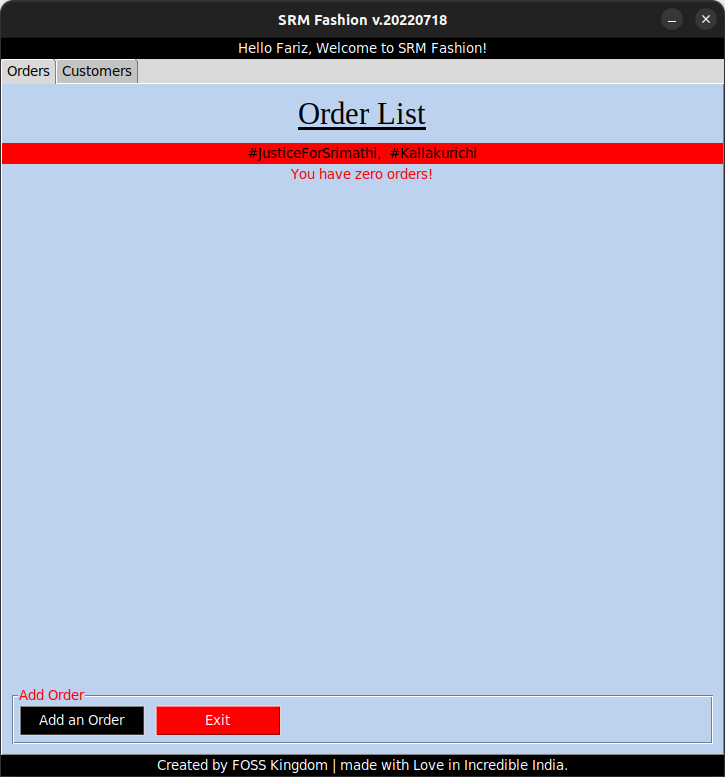
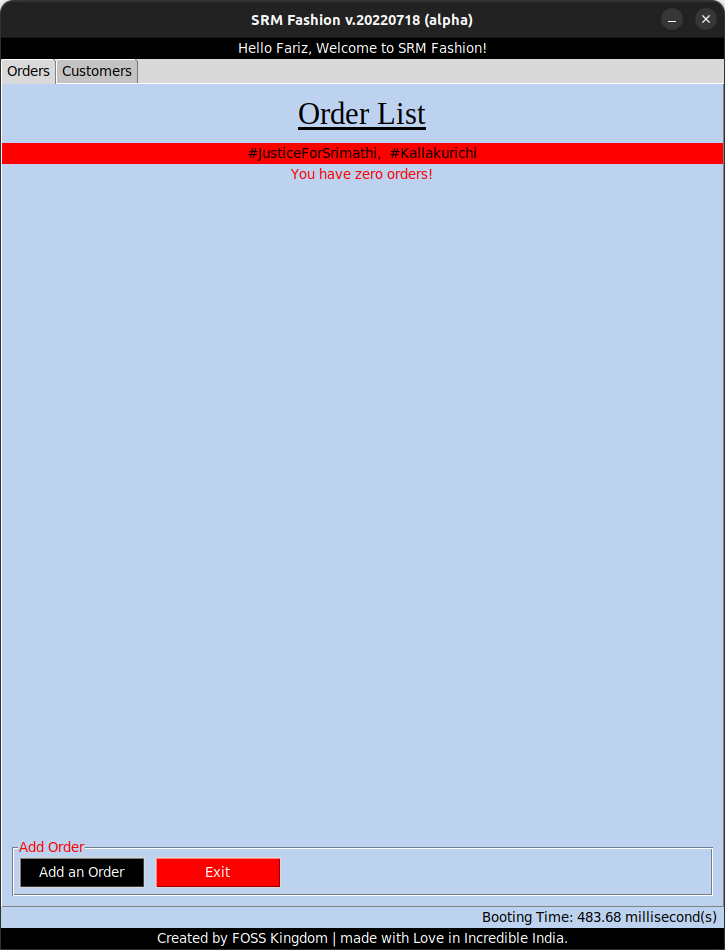
Added Date Picker Tool

Changed region(s): [[0.0, 0.0, 1.0, 0.2471], [0.0, 0.8649, 1.0, 1.0]]

diff --git a/__main__.py b/__main__.py
@@ -9,8 +9,10 @@ def exit_app() -> None:
     app.destroy()
 
     if isdir(s=cache_file_path):
+        print(Fore.GREEN + "INFO: Cleaning cache files, Please wait...")
         rmtree(path=cache_file_path)
 
+    print(Fore.RED + "Bye...")
     terminate()
 
 
@@ -24,7 +26,8 @@ def search_record():
     name_entry.delete(first=0, last="end")
     phone_entry.delete(first=0, last="end")
     email_entry.delete(first=0, last="end")
-    dob_entry.delete(first=0, last="end")
+    day_selection.selection_set(date=today)
+    day_selection.selection_clear()
     gender_var.set(value=gender_options[0])
 
     if not search:
@@ -62,11 +65,16 @@ def search_record():
     total_customers_label.config(text=f"{total_customers} customer(s) found!")
 
 
-def fetch_data() -> None:
-    if not treeview_db.get_children():
-        return None
+def clear_date():
+    day_selection.selection_set(today)
+    day_selection.selection_clear()
 
+
+def fetch_data() -> None:
     customer_data: list = treeview_db.item(item=treeview_db.focus()).get("values")
+
+    if not customer_data:
+        return None
 
     name_label.config(fg="black")
     phone_label.config(fg="black")
@@ -75,7 +83,13 @@ def fetch_data() -> None:
     name_var.set(value=customer_data[0])
     phone_var.set(value=customer_data[1])
     email_var.set(value=customer_data[2])
-    dob_var.set(value=customer_data[3])
+
+    try:
+        day_selection.selection_set(date=customer_data[3])
+
+    except ValueError:
+        day_selection.selection_set(date=today)
+        day_selection.selection_clear()
 
     if customer_data[4] == gender_options[0]:
         gender_var.set(value=gender_options[0])
@@ -222,7 +236,7 @@ def create_entry() -> None:
     if email is None:
         return None
 
-    dob: str = dob_var.get().strip()
+    dob: str = day_selection.get_date()
     gender: str = gender_var.get()
 
     try:
@@ -250,7 +264,8 @@ def create_entry() -> None:
     name_entry.delete(first=0, last="end")
     phone_entry.delete(first=0, last="end")
     email_entry.delete(first=0, last="end")
-    dob_entry.delete(first=0, last="end")
+    day_selection.selection_set(date=today)
+    day_selection.selection_clear()
     gender_var.set(value=gender_options[0])
 
     name_entry.focus()
@@ -288,7 +303,7 @@ def update_entry() -> None:
     if email is None:
         return None
 
-    dob: str = dob_var.get().strip()
+    dob: str = day_selection.get_date()
     gender: str = gender_var.get()
 
     selected_id: str = treeview_db.item(selected_item).get("values")[1]
@@ -316,7 +331,8 @@ def update_entry() -> None:
     name_entry.delete(first=0, last="end")
     phone_entry.delete(first=0, last="end")
     email_entry.delete(first=0, last="end")
-    dob_entry.delete(first=0, last="end")
+    day_selection.selection_set(date=today)
+    day_selection.selection_clear()
     gender_var.set(value=gender_options[0])
 
     name_entry.focus()
@@ -360,7 +376,8 @@ def delete_entry() -> None:
     name_entry.delete(first=0, last="end")
     phone_entry.delete(first=0, last="end")
     email_entry.delete(first=0, last="end")
-    dob_entry.delete(first=0, last="end")
+    day_selection.selection_set(date=today)
+    day_selection.selection_clear()
     gender_var.set(value=gender_options[0])
 
     print(Fore.GREEN + "INFO: 1 record deleted successfully...")
@@ -383,7 +400,8 @@ def clear_entry() -> None:
     email_label.config(fg="black")
     email_entry.delete(first=0, last="end")
 
-    dob_entry.delete(first=0, last="end")
+    day_selection.selection_set(date=today)
+    day_selection.selection_clear()
 
     gender_var.set(gender_options[0])
 
@@ -391,11 +409,14 @@ def clear_entry() -> None:
 
 
 try:
+    print("INFO: Importing built-in modules...")
+    from datetime import datetime
     from getpass import getuser
     from os.path import isdir, join, split
     from shutil import rmtree
     from sqlite3 import IntegrityError, OperationalError, connect
     from sys import exit as terminate
+    from time import time
     from tkinter import (
         Button,
         Entry,
@@ -409,19 +430,27 @@ try:
     from tkinter.messagebox import askyesno, showinfo
     from tkinter.ttk import Notebook, Treeview
 
-    from colorama import Fore, init
-    from phonenumbers import format_number, is_valid_number, parse
-    from phonenumbers.phonenumberutil import NumberParseException
-
-    __version__: str = "v.20220718"
-    total_orders: int = 0
+    today: datetime = datetime.today()
     base_path: str = split(p=__file__)[0]
     database_path: str = join(base_path, "customers.db")
     cache_file_path: str = join(base_path, "__pycache__")
-    accent_color_light: str = "lightsteelblue2"
+    start_time: float = time()
+
+    print("INFO: Importing third-party modules...")
+    from colorama import Fore, init
+    from phonenumbers import format_number, is_valid_number, parse
+    from phonenumbers.phonenumberutil import NumberParseException
+    from tkcalendar import Calendar
+
+    print("INFO: Initializing colorama...")
     init(autoreset=True)
 
+    __version__: str = "v.20220718 (alpha)"
+    total_orders: int = 0
+    accent_color_light: str = "lightsteelblue2"
+
     try:
+        print(Fore.GREEN + "INFO: Reading database file...")
         conn = connect(database=database_path)
         c = conn.cursor()
         c.execute(
@@ -454,7 +483,6 @@ try:
     name_var: StringVar = StringVar()
     phone_var: StringVar = StringVar()
     email_var: StringVar = StringVar()
-    dob_var: StringVar = StringVar()
     gender_var: StringVar = StringVar()
 
     Label(
@@ -485,9 +513,40 @@ try:
     ).pack(pady=10)
 
     if total_orders == 0:
+        if today.month == 1 and today.day == 1:
+            msg: str = "New Year's Day."
+
+        elif today.month == 2 and today.day == 14:
+            msg: str = "Happy Valentine's Day."
+
+        elif today.month == 3 and today.day == 8:
+            msg: str = "Today is International Women's Day."
+
+        elif today.month == 6 and today.day == 14:
+            msg: str = "Today is World Blood Donor Day."
+
+        elif today.month == 6 and today.day == 19:
+            msg: str = "Happy Father's Day."
+
+        elif today.month == 10 and today.day == 5:
+            msg: str = "Today is Fariz's Birthday *(developer of Sales-Predictor)"
+
+        elif today.month == 12 and today.day == 1:
+            msg: str = "Today is World AIDS Day."
+
+        elif today.month == 12 and today.day == 25:
+            msg: str = "Merry Christmas."
+
+        elif today.month == 12 and today.day == 31:
+            msg: str = "Happy New Year's Eve"
+
+        else:
+            msg: str = "#JusticeForSrimathi,  #Kallakurichi"
+
+        print(Fore.RED + msg)
         Label(
             master=orders_frame,
-            text="#JusticeForSrimathi,  #Kallakurichi",
+            text=msg,
             bg="red",
         ).pack(fill="x")
 
@@ -544,7 +603,7 @@ try:
 
     lf23: LabelFrame = LabelFrame(
         master=customers_frame,
-        text="Customer Data",
+        text="Customer Details",
         fg="red",
         bg=accent_color_light,
     )
@@ -568,10 +627,10 @@ try:
     for _ in header_list:
         treeview_db.heading(column=_, text=_)
 
-    treeview_db.column(column=0, width=130, minwidth=130, anchor="w")
+    treeview_db.column(column=0, width=150, minwidth=150, anchor="w")
     treeview_db.column(column=1, width=130, minwidth=130, anchor="center")
     treeview_db.column(column=2, width=225, minwidth=225, anchor="w")
-    treeview_db.column(column=3, width=100, minwidth=100, anchor="center")
+    treeview_db.column(column=3, width=80, minwidth=80, anchor="center")
     treeview_db.column(column=4, width=80, minwidth=80, anchor="w")
 
     treeview_db.bind(sequence="<Double-1>", func=lambda event: fetch_data())
@@ -584,9 +643,9 @@ try:
 
     # Customer tab, Search section
     Label(master=lf22, text="Search:", bg=accent_color_light).pack(side="left", padx=10)
-    search_entry: Entry = Entry(master=lf22, textvariable=search_var)
+    search_entry: Entry = Entry(master=lf22, textvariable=search_var, width=25)
     search_entry.bind(sequence="<Return>", func=lambda event: search_record())
-    search_entry.pack(side="left", padx=20)
+    search_entry.pack(side="left", padx=25)
 
     search_button: Button = Button(
         master=lf22,
@@ -609,31 +668,45 @@ try:
         text="Enter Customer Name:",
         bg=accent_color_light,
     )
-    name_label.grid(row=0, column=0, padx=5, sticky="w")
-    name_entry: Entry = Entry(master=f21, width=25, textvariable=name_var)
+    name_label.grid(row=0, column=0, sticky="w")
+    name_entry: Entry = Entry(master=f21, width=30, textvariable=name_var)
     name_entry.grid(row=0, column=1, padx=5)
 
     phone_label: Label = Label(
         master=f21, text="Contact Number:", bg=accent_color_light
     )
     phone_label.grid(row=1, column=0, sticky="w")
-    phone_entry: Entry = Entry(master=f21, width=25, textvariable=phone_var)
-    phone_entry.grid(row=1, column=1)
+    phone_entry: Entry = Entry(master=f21, width=30, textvariable=phone_var)
+    phone_entry.grid(row=1, column=1, padx=5)
 
     email_label: Label = Label(
         master=f21, text="Email (Optional):", bg=accent_color_light
     )
     email_label.grid(row=2, column=0, sticky="w")
-    email_entry: Entry = Entry(master=f21, width=25, textvariable=email_var)
-    email_entry.grid(row=2, column=1)
+    email_entry: Entry = Entry(master=f21, width=30, textvariable=email_var)
+    email_entry.grid(row=2, column=1, padx=5)
 
     Label(
         master=f21,
-        text="Date of Birth (Optional):",
+        text=f"Date of Birth (Optional):",
         bg=accent_color_light,
     ).grid(row=3, column=0, sticky="w")
-    dob_entry: Entry = Entry(f21, width=25, textvariable=dob_var)
-    dob_entry.grid(row=3, column=1)
+    # ERROR: No module named 'babel.numbers'
+    day_selection: Calendar = Calendar(
+        master=f21,
+        selectmode="day",
+        year=today.year,
+        month=today.month,
+        background="#212946",
+    )
+    day_selection.selection_clear()
+    day_selection.grid(row=3, column=1, padx=5, pady=5)
+
+    clear_date_button: Button = Button(
+        master=f21, text="Clear Date", fg="white", bg="red", width=10, command=clear_date
+    )
+    clear_date_button.bind(sequence="<Return>", func=lambda event: clear_date())
+    clear_date_button.grid(row=3, column=2, padx=5, sticky="e")
 
     Label(master=f21, text="Gender:", bg=accent_color_light).grid(
         row=4, column=0, sticky="w"
@@ -646,7 +719,6 @@ try:
 
     name_entry.bind(sequence="<Return>", func=lambda event: phone_entry.focus())
     phone_entry.bind(sequence="<Return>", func=lambda event: email_entry.focus())
-    email_entry.bind(sequence="<Return>", func=lambda event: dob_entry.focus())
 
     # customer tab data button section
     f22: Frame = Frame(master=lf23, bg=accent_color_light)
@@ -726,6 +798,15 @@ try:
         bg="black",
         fg="white",
     ).pack(side="bottom", fill="x")
+
+    boot_time_label: Label = Label(master=app, bg=accent_color_light)
+    boot_time_label.pack(side="right", fill="x", padx=5)
+
+    end_time: float = time()
+    elapsed_time = end_time - start_time
+
+    if elapsed_time < 1:
+        boot_time_label.config(text=f"Booting Time: {round(elapsed_time * 1000, 2)} millisecond(s)")
 
     update_database()
 

diff --git a/README.md b/README.md
@@ -1,9 +1,11 @@
 # TailorMate
+
 Free and open source app for tailoring shop and boutique to manage order, measurement, customers
 
 TailorMate app is is CRM (Customer Relationship Management) and order management solution designed for Tailoring shops and Boutiques.
 
-# Gallery
+## Gallery
+
 ![Order Managements](https://raw.githubusercontent.com/JahidFariz/TailorMate/main/gallery/1.png)
 
 ![Customer Relationship Management](https://raw.githubusercontent.com/JahidFariz/TailorMate/main/gallery/2.png)
